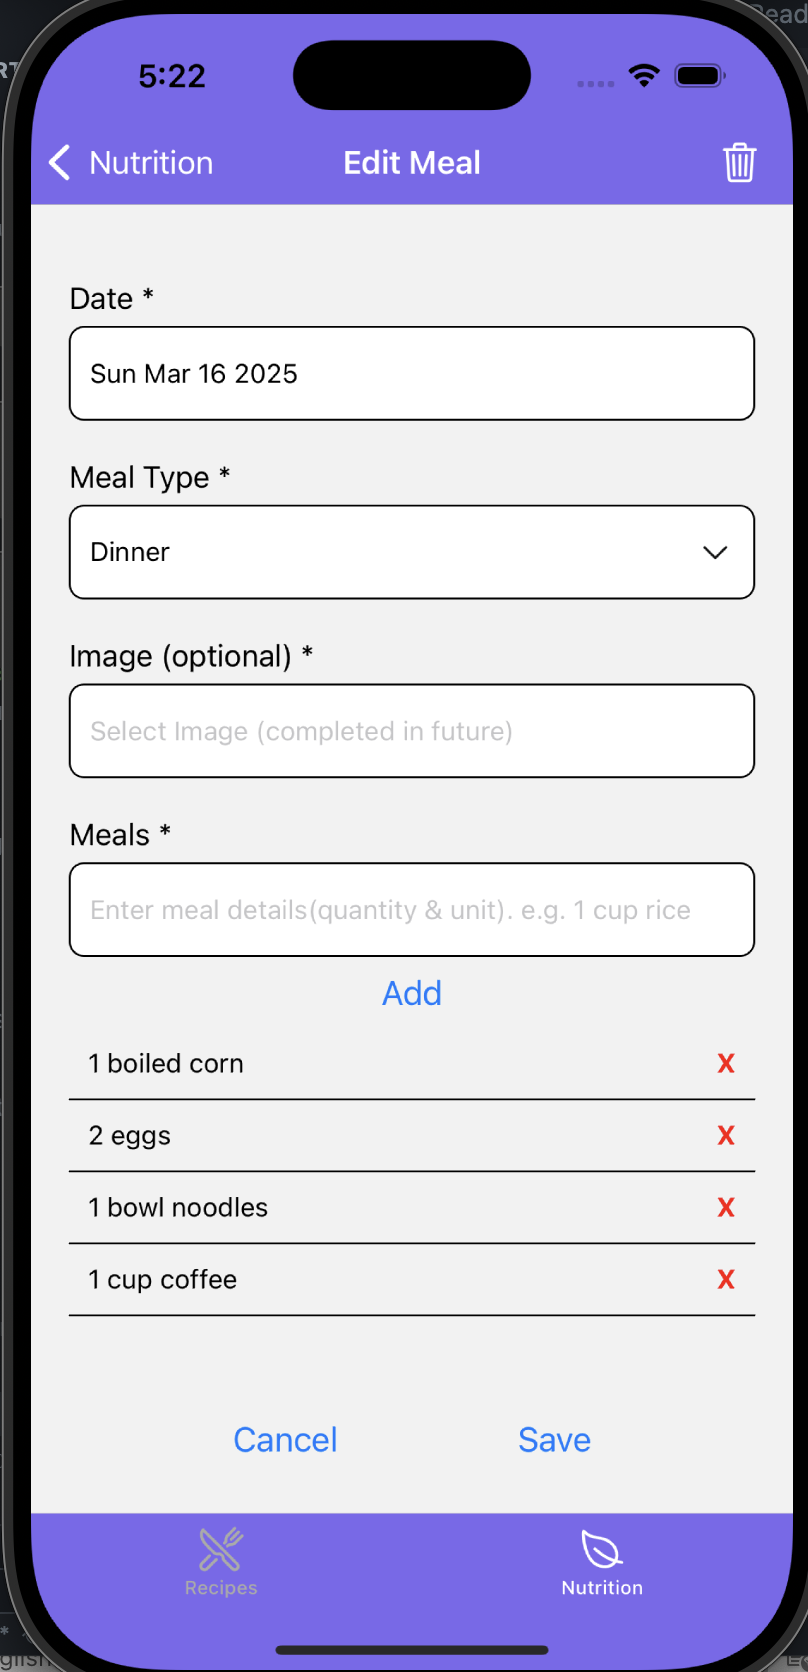
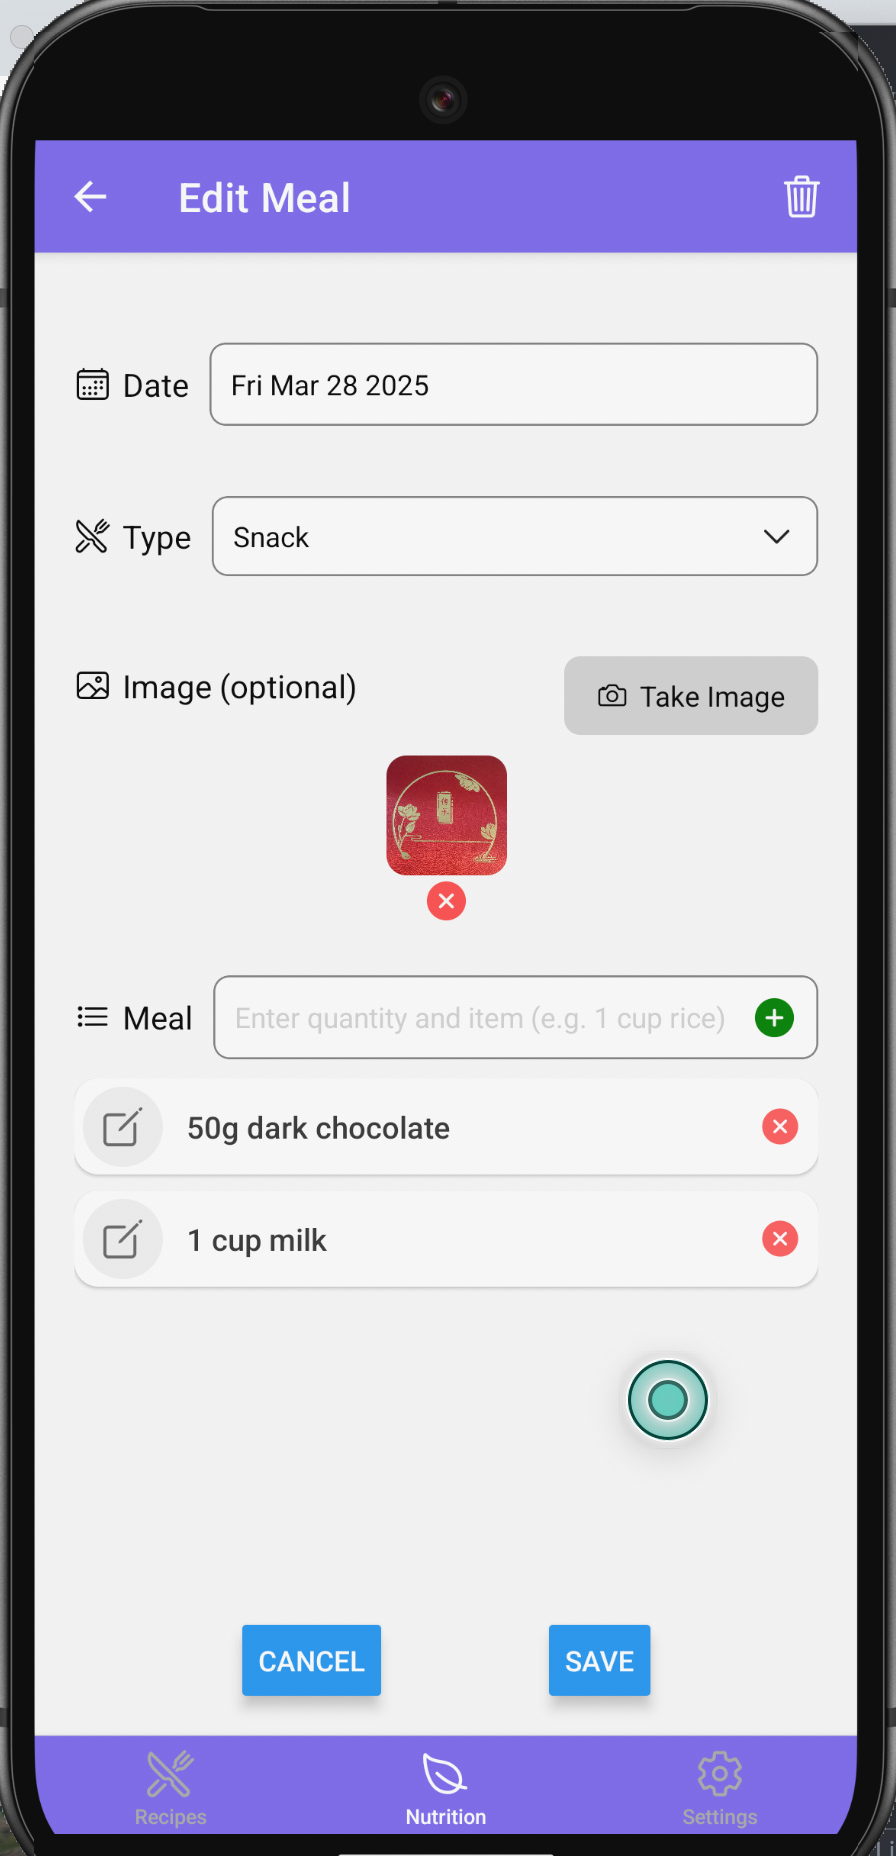
docs: update README with meal and recipe schemas, add image upload functionality details

diff --git a/README.md b/README.md
@@ -5,16 +5,48 @@ We have structured our Firestore database to ensure **efficient data retrieval, 
 
 ### **Top-Level Collection:**  
 - **`users`** → Each user has their own data.
+- Contains two sub-collections:
+  - meals
+  - recipes
+- Currently, the user document itself is empty, but we plan to add fields in the future (e.g., profile preferences, avatar, signup date).
 
 ### **Sub-Collections (under `users/{userId}`):**  
 - **`meals`** → Stores meal logs for each user (`{mealId}` document). When a meal is added, its nutrition is automatically analyzed 
 and stored within the meal document. Each document ({mealId}) represents a meal, allowing users to add, edit, and delete meals as needed.
+
+  ```
+  meals Schema
+  {
+    id: string;
+    date: Timestamp;
+    type: string;            // type of the meal (e.g., "Breakfast")
+    image?: string;
+    ingredients: string[];
+    analyzed: boolean;
+    nutrition?: Nutrition;
+  }
+
+  ```
   - ✅ **Create** meals using `writeMealToDB()`.  
   - ✅ **Read** meals and their nutrition using `fetchMeals()`.  
   - ✅ **Update** meals using `updateMealToDB()`.  
   - ✅ **Delete** meals using `deleteMealFromDB()`.  
 - **`recipes`** → Stores saved recipes for each user (`{recipeId}` document).  
 Users can create, edit, delete, and mark recipes as favorite. Each document (`{recipeId}`) represents an individual recipe, containing ingredients, instructions, and timestamps.
+  ```
+  recipes Schema
+  {
+    id?: string;
+    name: string;
+    ingredients: string[];
+    instructions: string;
+    photoUrl?: string;
+    createdAt?: any;
+    isFavorite?: boolean;
+  }
+
+  ```
+
   - ✅ **Create** recipes using addRecipe().
   - ✅ **Read** recipes using getAllRecipes() or getRecipeById().
   - ✅ **Update** recipes using updateRecipe().
@@ -38,13 +70,16 @@ We've implemented the core nutrition tracking functionalities, including:
 2. **Adding new meals**, with automatic nutrition analysis.  
 3. **Viewing detailed nutrition breakdown** for each meal.  
 4. **Editing or deleting meals** as needed.  
+5. **Uploading meal images** using the device camera, with image storage integrated via Firebase Storage.
 
 
 #### Nutrition Screenshot:  
 <img src="assets/nutritionPhoto/allNutritions.png" alt="all Meals & Nutrition" width="20%"/>
+<img src="assets/nutritionPhoto/emptyMeal.png" alt="all Meals & Nutrition" width="20%"/>
 <img src="assets/nutritionPhoto/addMeal.png" alt="Add Meals" width="20%"/>
-<img src="assets/nutritionPhoto/mealDetail.png" alt="Meals Detail" width="20%"/>
 <img src="assets/nutritionPhoto/editMeal.png" alt="Edit Meals" width="20%"/>
+<img src="assets/nutritionPhoto/mealDetail.png" alt="Meals Detail" width="20%"/>
+
 
 #### Recipe Screenshot:  
 <img src="assets/recipePhoto/allRecipes.png" alt="all Meals & Nutrition" width="20%"/>
@@ -57,19 +92,15 @@ We've implemented the core nutrition tracking functionalities, including:
 ## 3. Team Contributions  
 | **Team Member** | **Contributions** |
 |----------------|------------------|
-| **Yuan Tian** |  **Responsible for the nutrition part.** 1) Designed and optimized the nutrition database structure and queries to efficiently store, retrieve, and update meal nutrition data in Firestore.  2) Developed screen layouts and UI components for nutrition parts, including `AllNutrition.tsx`, `AddMeal.tsx`, `EditMeal.tsx`, and `MealDetail.tsx`.  3) Implemented automatic nutrition analysis using an external API when adding meals, ensuring seamless integration with Firestore. |
-| **Yue Wang** | 1) Designed and structured the **recipe database** in Firestore to efficiently manage user-created recipes, ensuring seamless CRUD operations.  
-2) Developed screen layouts and UI components for the recipe sections, including `index.tsx`(all recipe screen), `[id].tsx`(recipe detail screen), `Add.tsx`(add recipe screen), and `Edit.tsx`(edit recipe screen).  
-3) Implemented **favorite functionality**, allowing users to mark and unmark recipes as favorite, storing this preference in Firestore for persistence, and allowing display filters to conditionally render recipe cards in the screen.
-4) Applied theme changing functionality throughout the entire application.
-4) Ensured data consistency by aligning the recipe structure with the meal storage model, keeping Firestore operations efficient and unified. 
+| **Yuan Tian** |  **Responsible for the nutrition part.** 1) Designed and optimized the nutrition database structure and queries to efficiently store, retrieve, and update meal nutrition data in Firestore.  2) Developed screen layouts and UI components for nutrition parts, including `AllNutrition.tsx`, `AddMeal.tsx`, `EditMeal.tsx`, and `MealDetail.tsx`.  3) Implemented automatic nutrition analysis using an external API when adding meals, ensuring seamless integration with Firestore. 4) Implemented image upload functionality for meals using Firebase Storage. |
+| **Yue Wang** | 1) Designed and structured the **recipe database** in Firestore to efficiently manage user-created recipes, ensuring seamless CRUD operations.  2) Developed screen layouts and UI components for the recipe sections, including `index.tsx`(all recipe screen), `[id].tsx`(recipe detail screen), `Add.tsx`(add recipe screen), and `Edit.tsx`(edit recipe screen).  3) Implemented **favorite functionality**, allowing users to mark and unmark recipes as favorite, storing this preference in Firestore for persistence, and allowing display filters to conditionally render recipe cards in the screen. 4) Applied theme changing functionality throughout the entire application. 5) Ensured data consistency by aligning the recipe structure with the meal storage model, keeping Firestore operations efficient and unified. 
 
 
 
 ---
 
 ## 4. Next Steps  
-- Integrate **camera functionality** for recipe and meal photo uploads.
+- Integrate **camera functionality** for recipe photo uploads.
 - Implement **notifications** to allow users to schedule reminders. 
 - Add **user authentication** to enable secure login and personalized data storage.
 - Improve **UI & Styling** for a better user experience.
